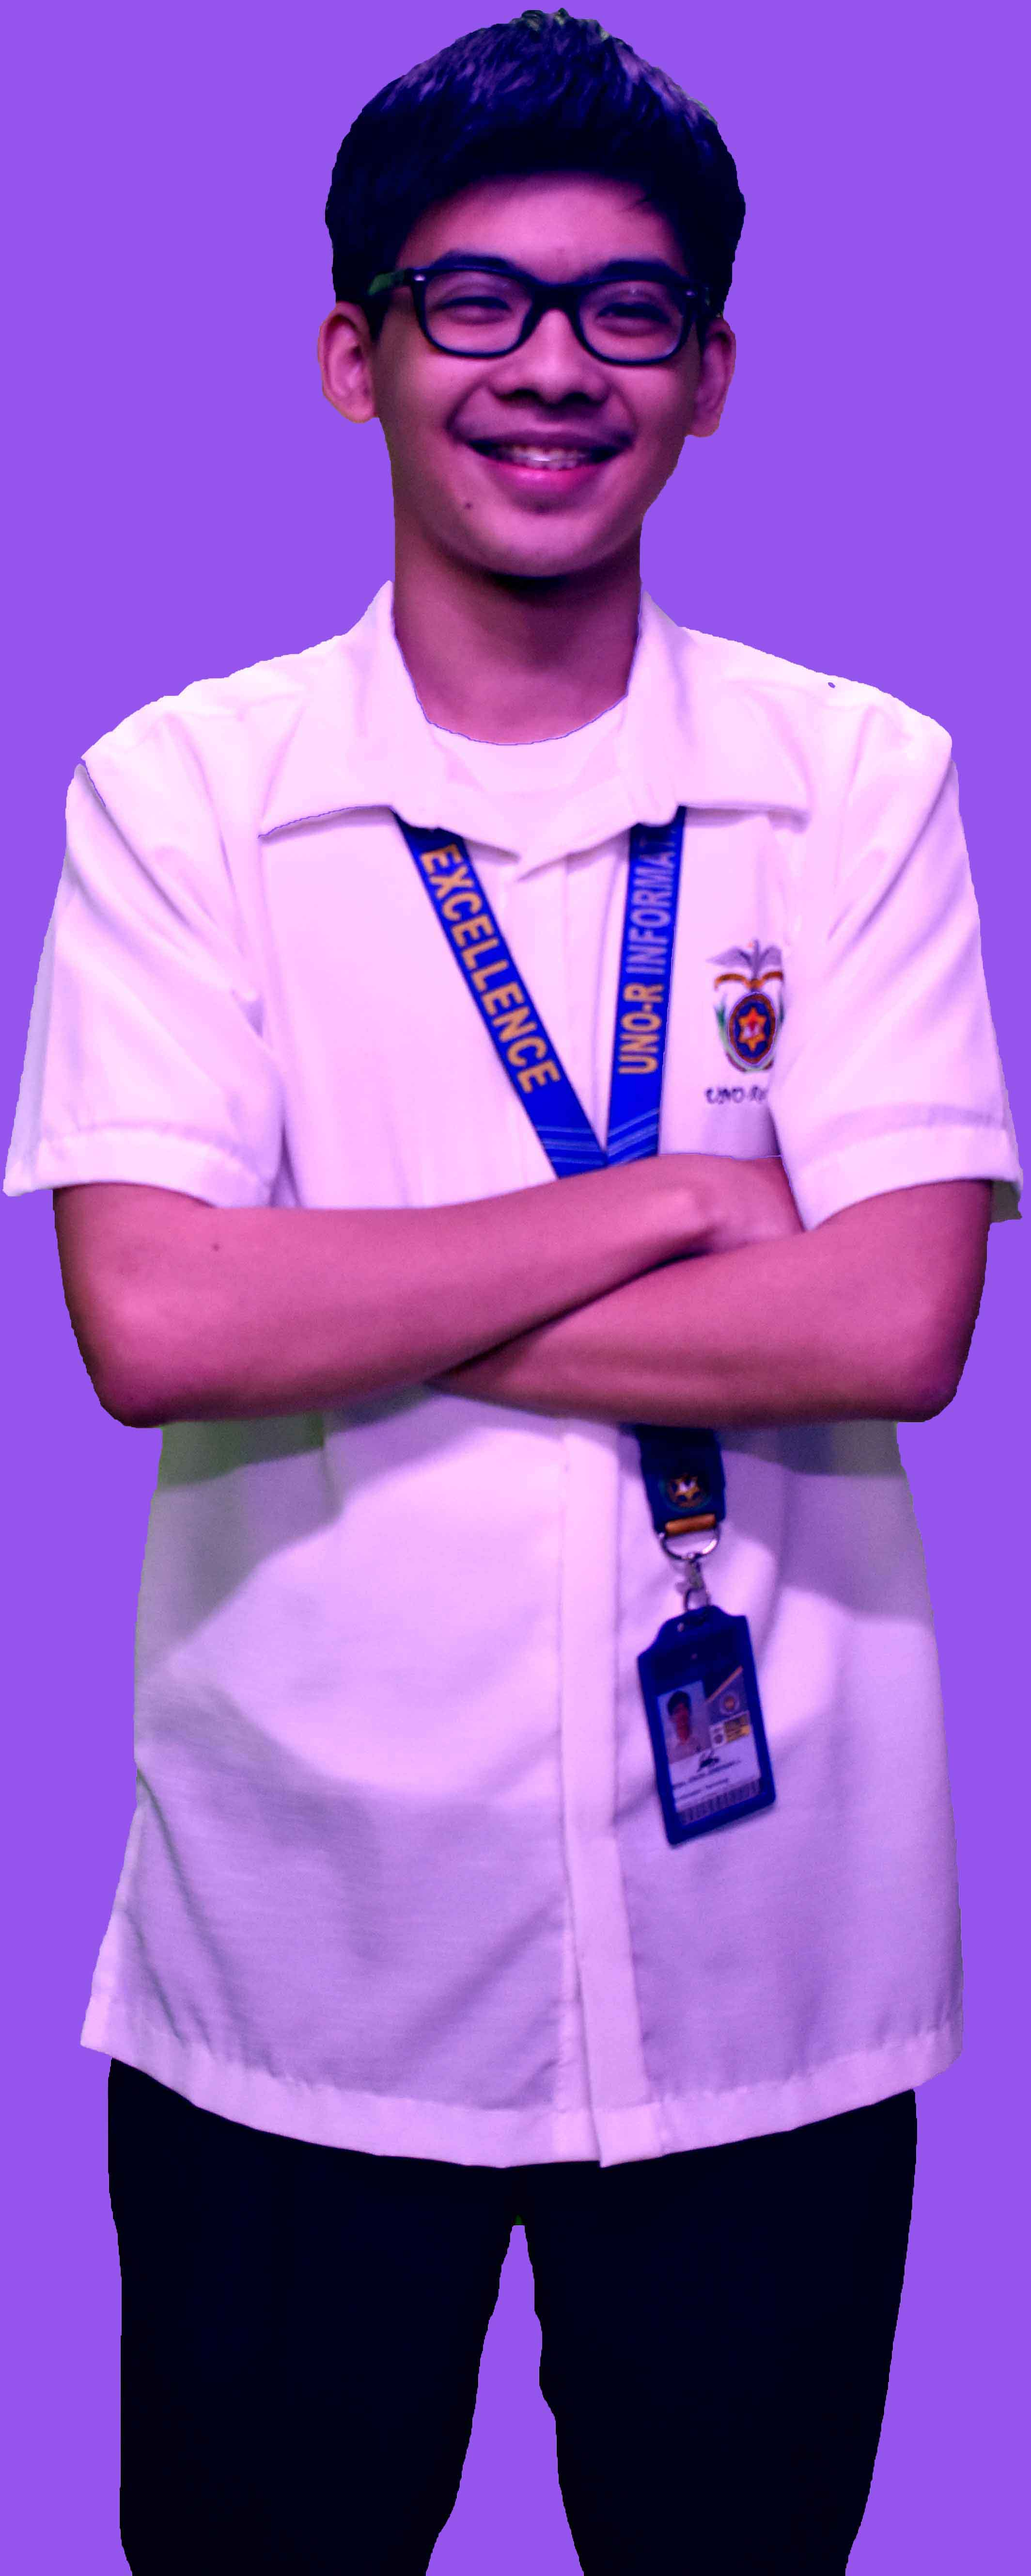
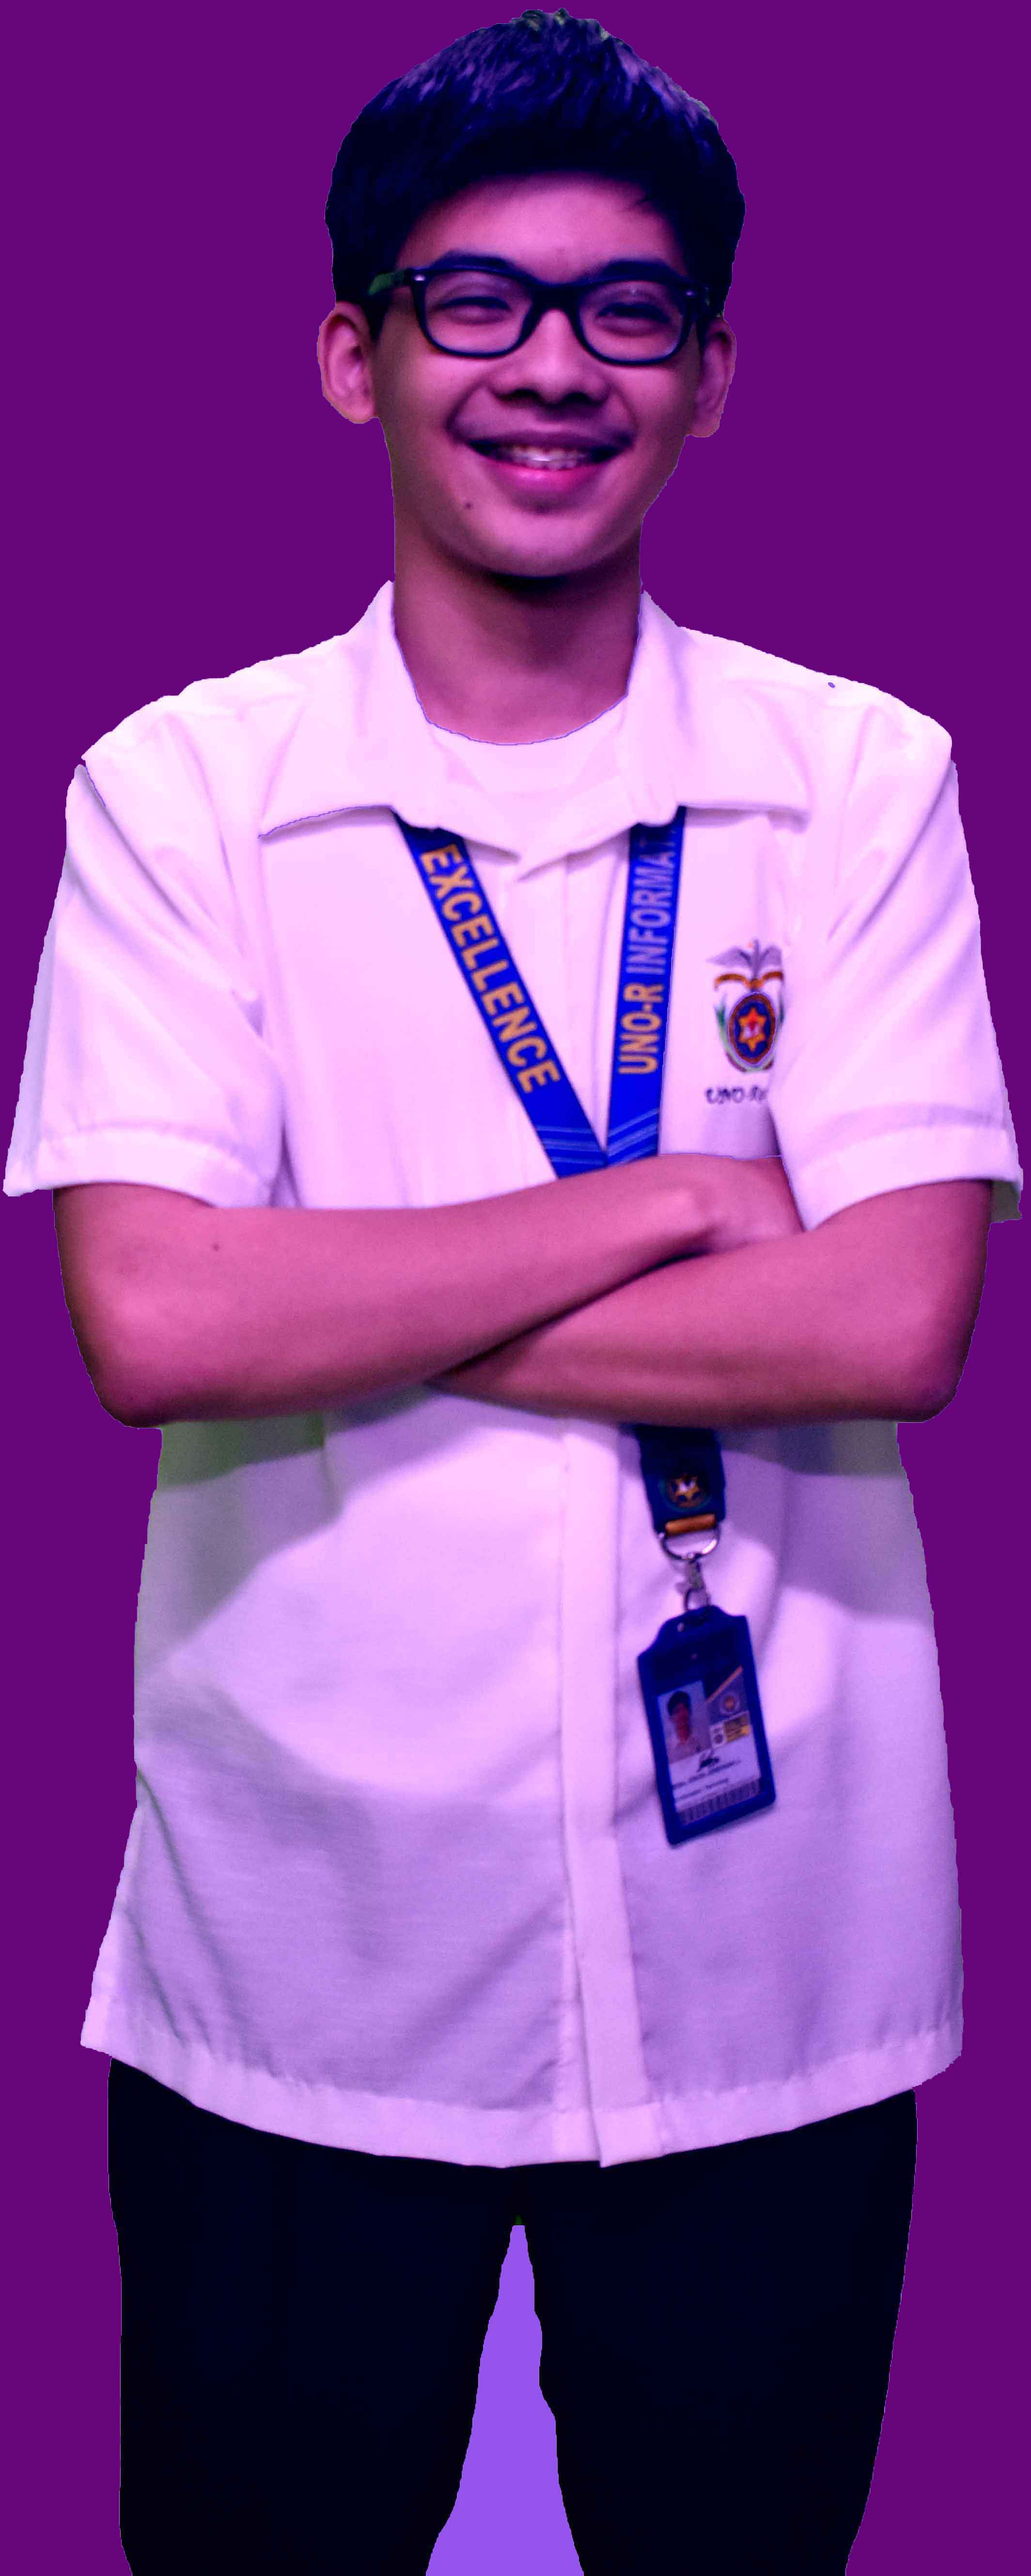
Edits
Adaptability Edits
Image edits

diff --git a/index.css b/index.css
@@ -53,11 +53,11 @@ section.sectioner{
 }
 .sec1{
     background-color: rgb(103,4,121);
-    background-image: url("diwaw/self2.jpg  ");
+    background-image: url("imgs/self1.jpg");
     background-size: contain;
     background-repeat: no-repeat;
     background-attachment: fixed;
-    background-position: center;
+    background-position: 50% 15vh;
 }
 .sec2{
     background-color: blueviolet;   
@@ -78,13 +78,14 @@ section.sectioner{
     background-color: darkviolet;
 }
 .col-md.data{
+    max-width: 50vw;
     display: inline;
     color: white;
     background-color: rgba(0,0,0,.5);
     border-radius: 25px;
 }
 .btn-info{
-    position: relative;
+    position: absolute;
     top: 75%;
     margin: auto;
     vertical-align: middle;
@@ -108,6 +109,17 @@ section.sectioner{
     }
     .footer{
         margin: auto;
+    }
+    .col-md.data{
+        max-width: 100vw;
+        display: inline;
+        color: white;
+        background-color: rgba(0,0,0,.5);
+        border-radius: 25px;
+    }
+    .btn-info{
+        margin-left: 22.5vw;
+        margin-top: 5vh;
     }
     div.container.footer{
     text-align: center;
